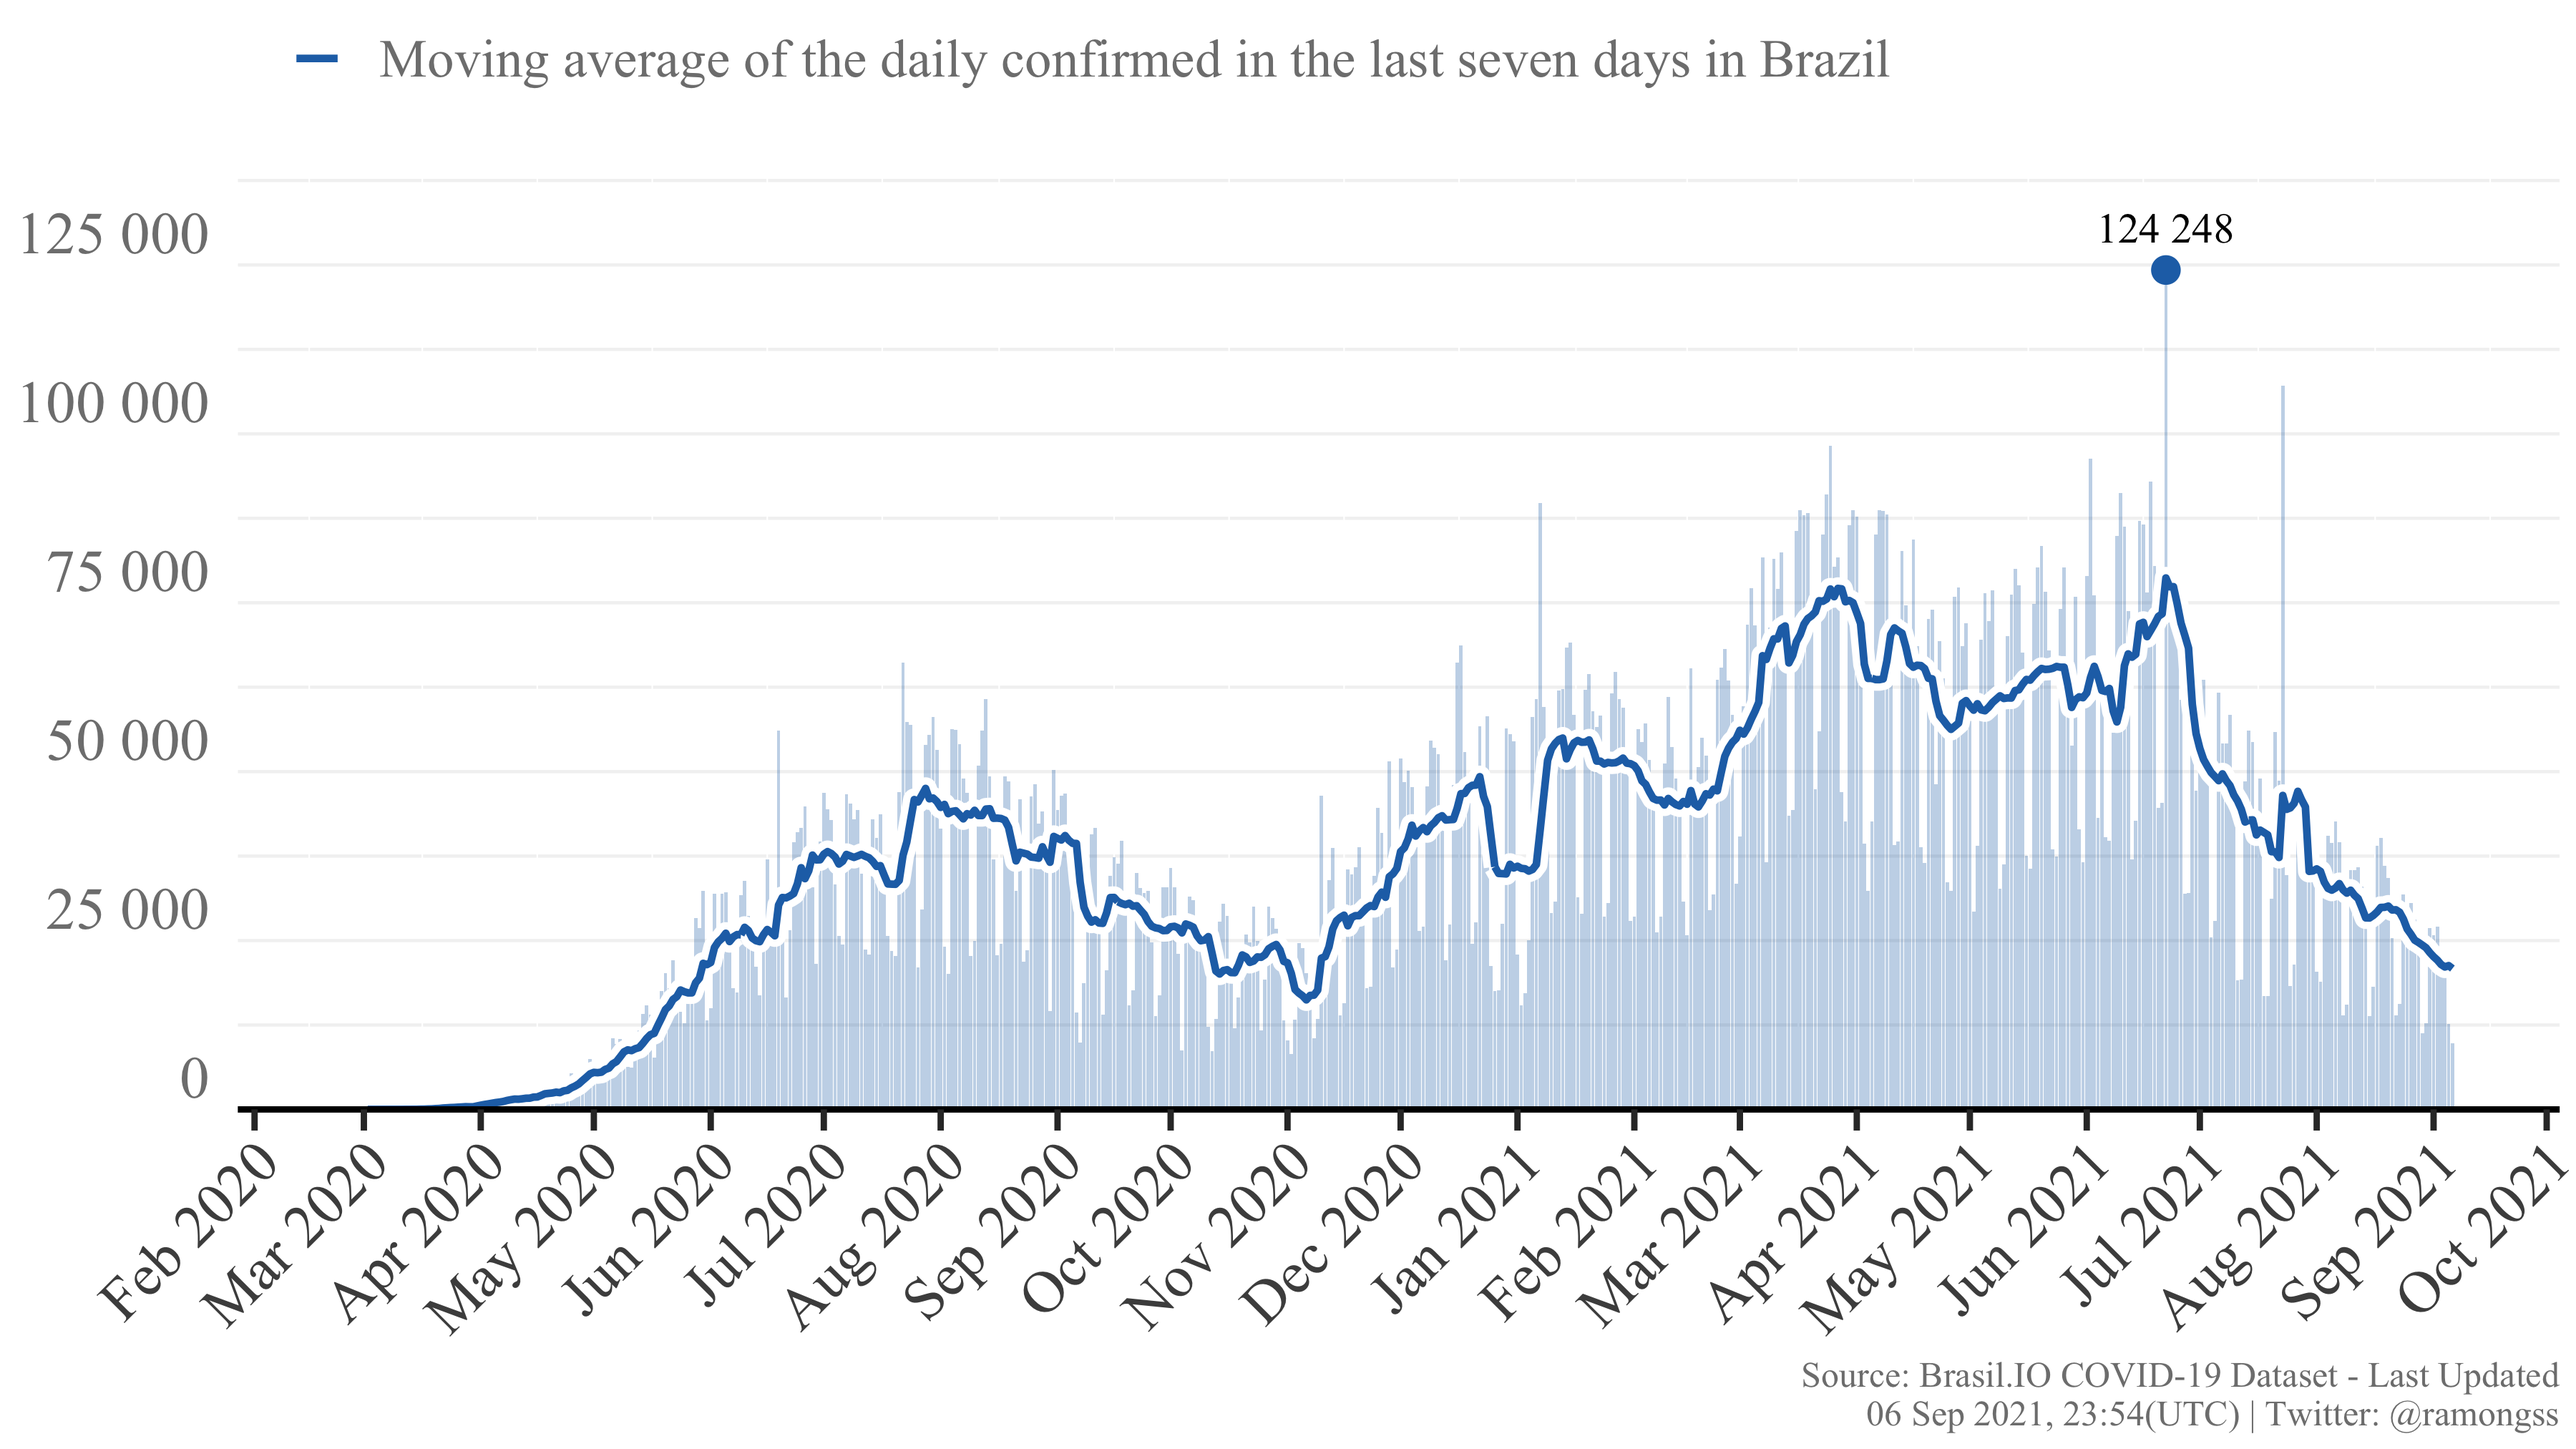
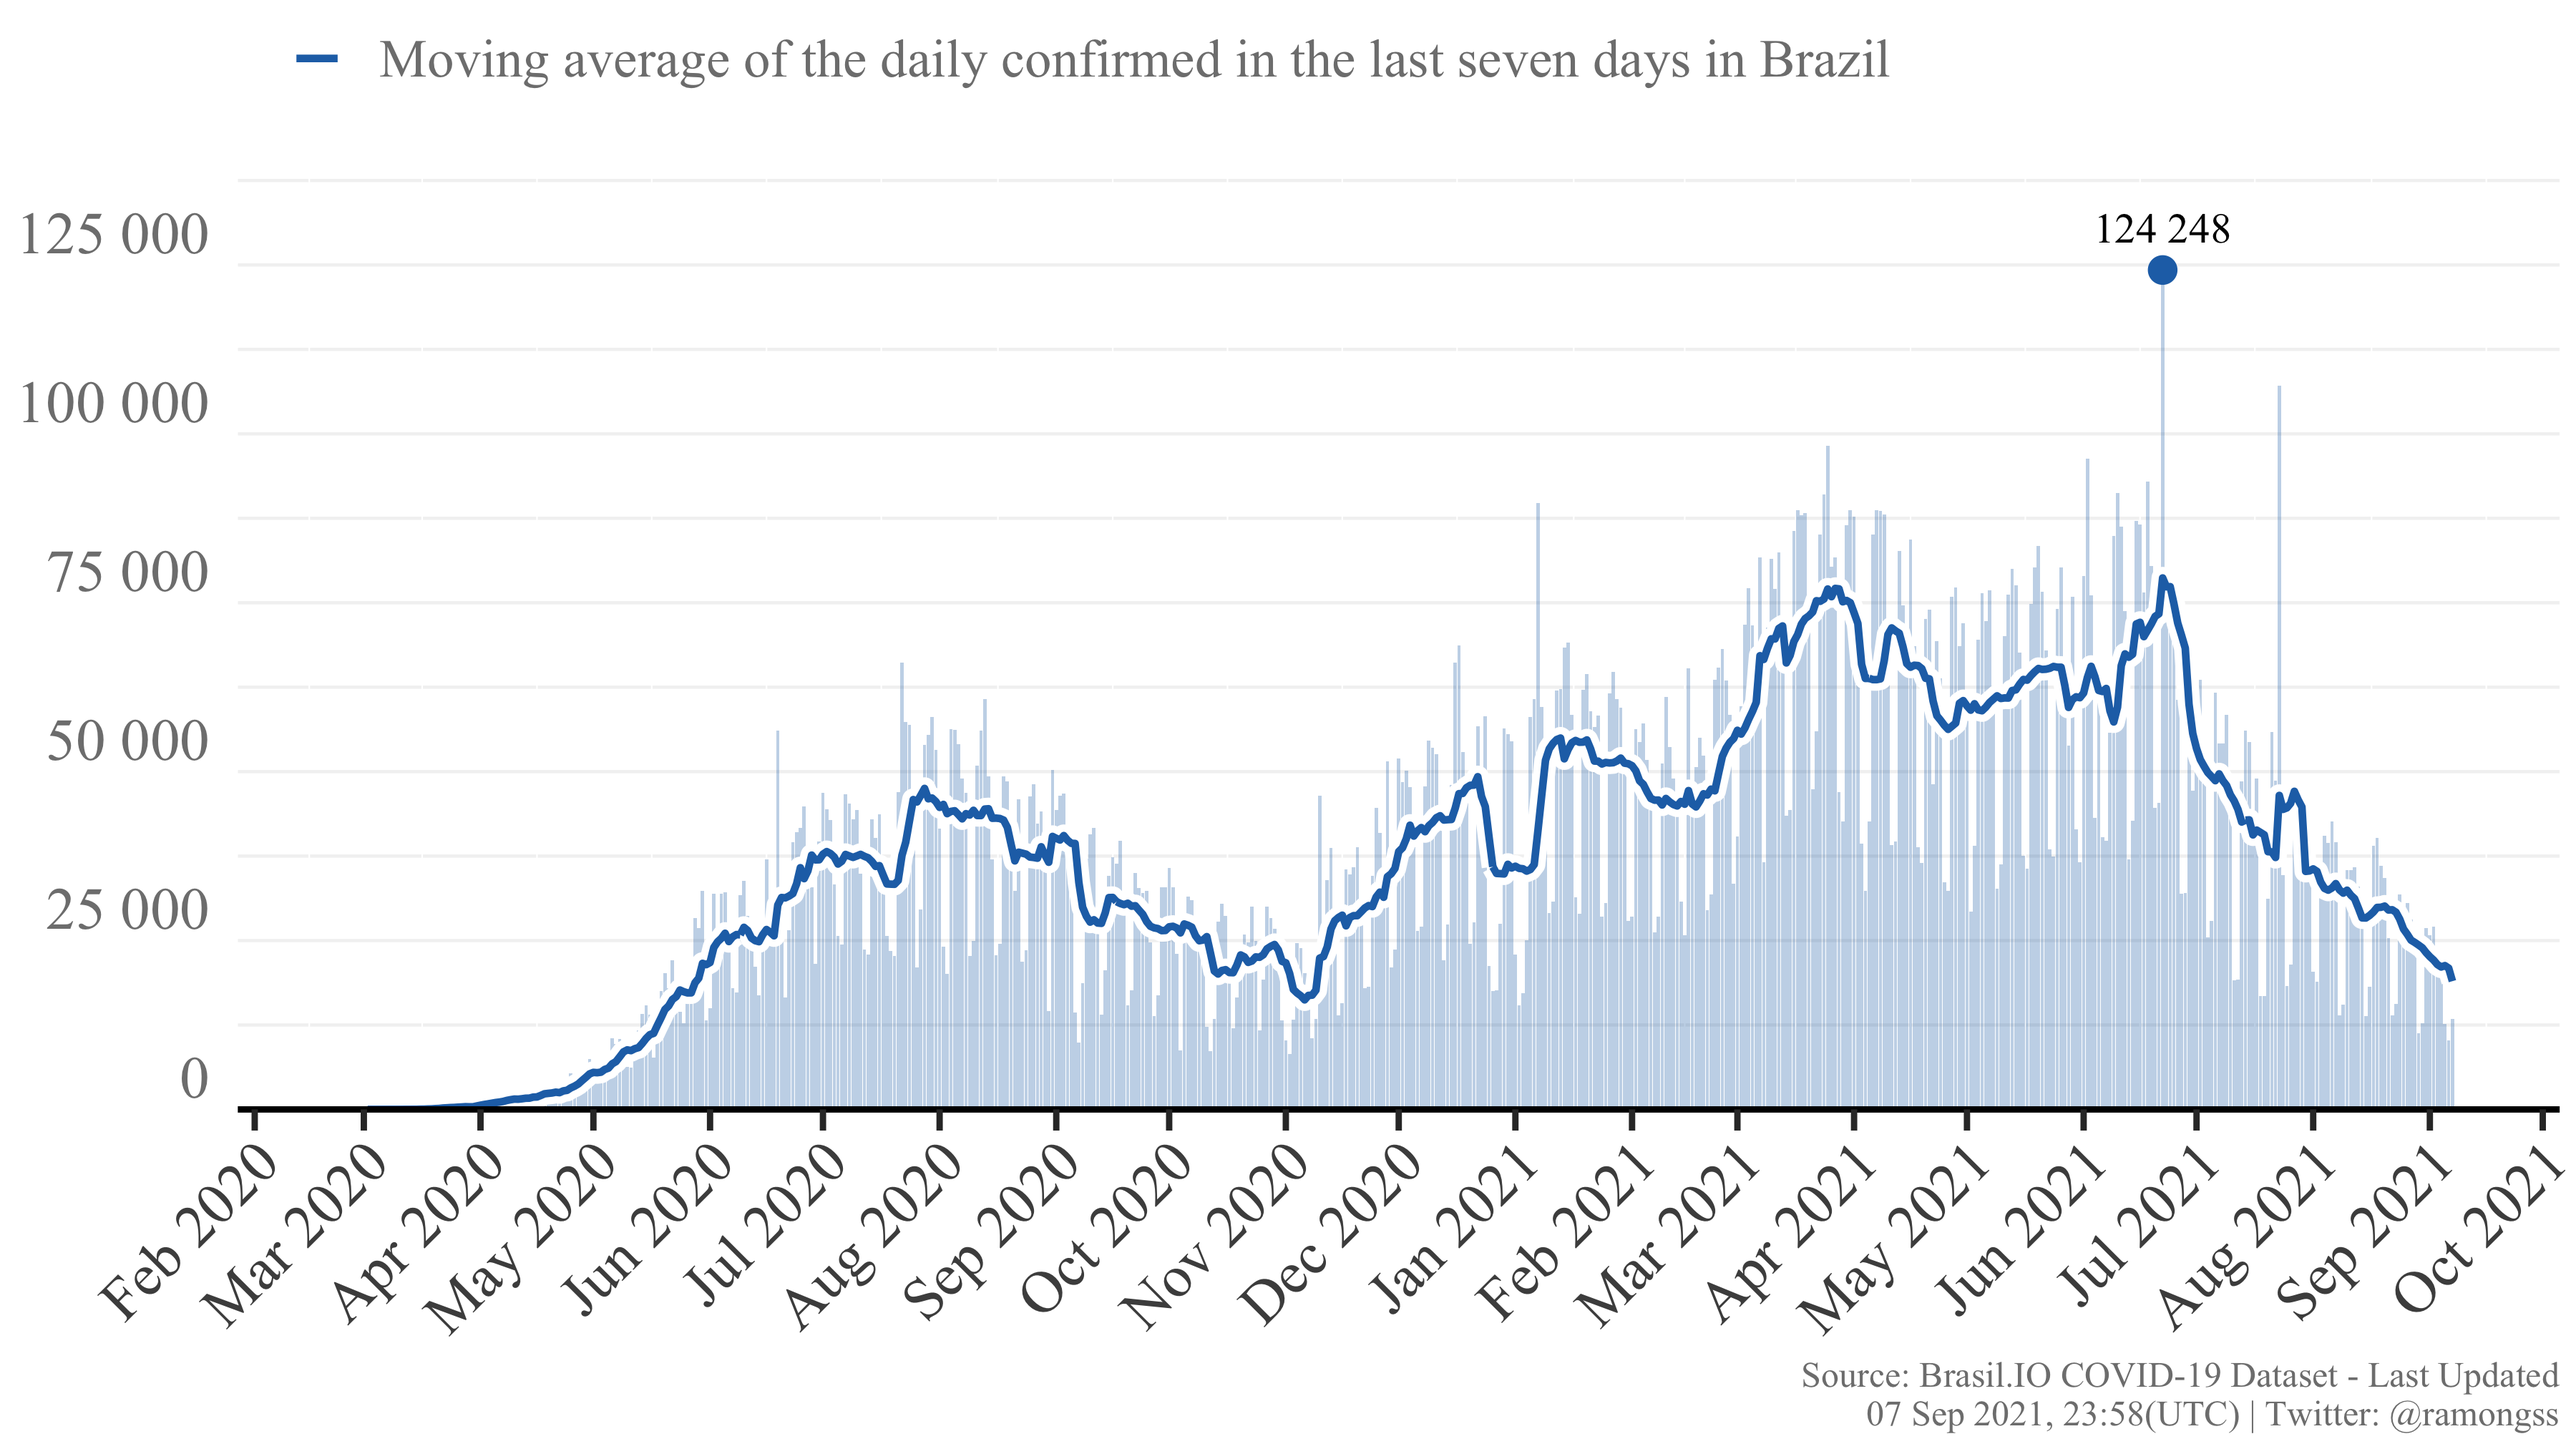
Re-build README.Rmd

diff --git a/README.md b/README.md
@@ -27,8 +27,8 @@ download_brasilio_table <- function(dataset = "covid19", table_name){
 
 ## COVID-19 Confirmed cases
 
-Currently, Brazil has a total of **20,904,330** confirmed cases at **06
-Sep, 2021**, with **9,773** new confirmed cases. The daily maximum
+Currently, Brazil has a total of **20,918,100** confirmed cases at **07
+Sep, 2021**, with **13,372** new confirmed cases. The daily maximum
 incidence was **124,248** confirmed cases at **22 Jun, 2021**. Here
 follows the Figure showing the confirmed case incidence as the bars, and
 the line as the moving average of the last 7 days.
@@ -37,8 +37,8 @@ the line as the moving average of the last 7 days.
 
 ## COVID-19 Deaths
 
-Currently, Brazil has a total of **584,101** deaths at **06 Sep, 2021**,
-with **209** new deaths. The daily maximum deaths incidence was
+Currently, Brazil has a total of **584,427** deaths at **07 Sep, 2021**,
+with **315** new deaths. The daily maximum deaths incidence was
 **4,148** deaths at **08 Apr, 2021**. Here follows the Figure showing
 the deaths incidence as the bars, and the line as the moving average of
 the last 7 days.
@@ -49,4 +49,4 @@ the last 7 days.
 
 This page is daily updated automatically using Github Actions.
 
-*Last update: 06 Sep 2021, 23:54 (UTC).*
+*Last update: 07 Sep 2021, 23:58 (UTC).*
